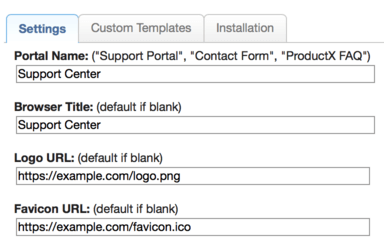
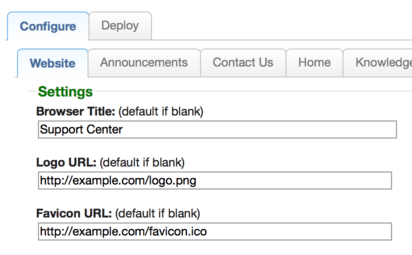
[Guides] Updated the Support Center guide for 8.3

diff --git a/_guides/portals/support-center.md b/_guides/portals/support-center.md
@@ -41,7 +41,7 @@ Type `support` in the search box and verify that the Support Center plugin is in
 
 Now we're ready to create a new Support Center.
 
-Navigate to **Setup >> Portals >> Search**.
+Navigate to **Search >> Community Portals**.
 
 Click the **(+)** icon above the worklist.
 
@@ -49,16 +49,26 @@ Enter the following values:
 
 * **Name:** `Support Center`
 * **Type:** `Support Center`
+* **Path:** `support`
+
+<div class="cerb-screenshot">
+<img src="/assets/images/guides/portals/support-center/create.png" class="screenshot">
+</div>
 
 Click the **Save Changes** button.
 
 # Configure the Support Center
+
+Click on **Support Center** in the community portal worklist to open its profile.
+
+Select the **Configure** tab.
 
 ### Branding
 
 <div class="cerb-screenshot">
 <img src="/assets/images/guides/portals/support-center/branding.png" class="screenshot">
 </div>
+
 ### Modules
 
 <div class="cerb-screenshot">
@@ -69,17 +79,5 @@ Click the **Save Changes** button.
 
 # Deploy the Support Center
 
-### Cerb Cloud
-
-If you're a [Cerb Cloud](/try/) subscriber, we include high-availability community portal hosting. This is already handled for you.
-
-### Nginx (recommended)
-
-See: [Host community portals using Nginx](/guides/portals/nginx-proxy/)
-
-### Cerb's PHP proxy script
-
-Select the **Installation** tab.
-
-You can deploy the `index.php` file in the web path of any web server capable of running PHP scripts (Nginx, Apache, IIS, etc).
+Switch to the **Deploy** tab and follow the instructions.
 
